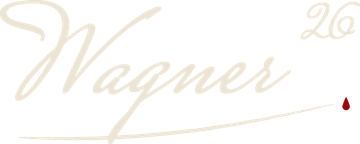
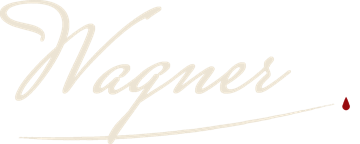
Book landing v2: leather cover, foreword, gold code rain, signatures without year
Claude-Session: https://claude.ai/code/session_01PTi5WCVtytDmMhrS8KDpcf

Changed region(s): [[0.825, 0.0, 1.0, 0.2778], [0.9472, 0.0, 1.0, 0.0556]]

diff --git a/web/book/index.html b/web/book/index.html
@@ -13,13 +13,13 @@
 <link rel="icon" type="image/png" href="/favicon.png">
 <style>html,body{margin:0}img{max-width:100%}[hidden]{display:none!important}:root{padding-top:env(safe-area-inset-top,0px);padding-bottom:env(safe-area-inset-bottom,0px)}</style>
 <style>
-/* Layout: one old book lying open on a dark, faintly gridded night desk; every leaf turns in 3D around the spine. Single committed dark world. */
+/* Layout: one old book lying open in front of a slow golden code rain (canvas); every leaf turns in 3D around the spine. Single committed dark world. */
 :root{
   --night:#0a0c13; --night-2:#141a2b; --grid:rgba(200,155,74,.05);
   --paper:#eadfc4; --paper-2:#dfcfa8; --paper-edge:#b89b68;
   --ink:#2b2018; --ink-soft:#6a5643; --rule:rgba(43,32,24,.28);
   --blood:#8f1016; --blood-hi:#c0222a; --gold:#c9a25a; --ember:#df7a2e;
-  --leather:#24090b; --leather-2:#3d1113;
+  --leather:#3a0810; --leather-2:#6a1220;
   --f-display:"IM Fell English SC","IM Fell English",Georgia,"Times New Roman",serif;
   --f-italic:"IM Fell English",Georgia,serif;
   --f-body:"EB Garamond",Garamond,Georgia,"Times New Roman",serif;
@@ -29,20 +29,18 @@
 }
 html,body{height:100%}
 body{
-  background:
-    radial-gradient(ellipse 60% 55% at 50% 48%, rgba(223,122,46,.13), transparent 70%),
-    linear-gradient(var(--grid) 1px, transparent 1px) 0 0/44px 44px,
-    linear-gradient(90deg,var(--grid) 1px, transparent 1px) 0 0/44px 44px,
-    radial-gradient(ellipse at 50% 0%, var(--night-2), var(--night) 70%);
-  background-color:var(--night);
+  background:#050403;
   color:var(--paper);
   font-family:var(--f-body);
   overflow:hidden;
   display:flex; flex-direction:column;
 }
+#matrix{position:fixed; inset:0; width:100%; height:100%; z-index:0; pointer-events:none; display:block}
+.vignette{position:fixed; inset:0; z-index:0; pointer-events:none; background:radial-gradient(ellipse 55% 60% at 50% 50%, rgba(5,4,3,.82), rgba(5,4,3,.35) 70%, rgba(5,4,3,.1))}
+.banner,.stage,.controls{position:relative; z-index:1}
 .banner{
   flex:none; text-align:center; font:500 12px/1.4 var(--f-mono); letter-spacing:.02em;
-  color:#e8c88f; background:rgba(143,16,22,.22); border-bottom:1px solid rgba(201,162,90,.25);
+  color:#e8c88f; background:#1f0809; border-bottom:1px solid rgba(201,162,90,.25);
   padding-block:8px; padding-left:max(16px,env(safe-area-inset-left,0px)); padding-right:max(16px,env(safe-area-inset-right,0px));
 }
 .banner b{color:var(--gold);letter-spacing:.12em;margin-right:.4em}
@@ -78,9 +76,6 @@ body{
 
 /* paper */
 .paper{background:
-   radial-gradient(circle at 18% 22%, rgba(140,96,40,.10) 0 3%, transparent 4%),
-   radial-gradient(circle at 76% 81%, rgba(140,96,40,.09) 0 2.5%, transparent 3.5%),
-   radial-gradient(circle at 63% 12%, rgba(140,96,40,.07) 0 1.6%, transparent 2.4%),
    radial-gradient(ellipse at 50% 50%, var(--paper) 55%, var(--paper-2) 100%);
   color:var(--ink); box-shadow:inset 0 0 0 1px rgba(120,90,50,.25)}
 .paper.r{border-radius:0 3px 3px 0}
@@ -186,25 +181,24 @@ input[type=email]{font:1em var(--f-body); color:var(--ink); background:rgba(255,
 .plate .cap{text-align:center; padding-block:.6em 7%; font:italic .82em/1.35 var(--f-italic); color:var(--ink-soft)}
 .plate .cap span{display:block; font:.62em var(--f-mono); letter-spacing:.12em; text-transform:uppercase; color:var(--blood); font-style:normal}
 
-/* leather covers */
-.cover{background:
-   radial-gradient(ellipse at 30% 20%, rgba(255,255,255,.06), transparent 50%),
-   repeating-radial-gradient(circle at 70% 60%, rgba(0,0,0,.08) 0 2px, transparent 2px 5px),
-   linear-gradient(135deg,var(--leather-2),var(--leather) 60%,#160506);
-  color:var(--gold)}
-.cover.r{border-radius:2px 8px 8px 2px; box-shadow:inset 6px 0 10px rgba(0,0,0,.5), inset -1px 0 0 rgba(255,255,255,.06)}
-.cover.l{border-radius:8px 2px 2px 8px; box-shadow:inset -6px 0 10px rgba(0,0,0,.5)}
-.tooling{position:absolute; inset:5.5%; border:1px solid rgba(201,162,90,.55); outline:1px solid rgba(201,162,90,.3); outline-offset:5px;
-  display:flex; flex-direction:column; align-items:center; justify-content:center; gap:1.1em; text-align:center; padding:8%}
-.tooling::before,.tooling::after{content:"✦"; position:absolute; left:50%; transform:translateX(-50%); font-size:.8em; color:var(--gold)}
-.tooling::before{top:-.65em} .tooling::after{bottom:-.65em}
-.cover h1{color:#e2c07a; font-size:2.7em; letter-spacing:.02em; text-shadow:0 1px 0 rgba(0,0,0,.6), 0 -1px 0 rgba(255,230,180,.15)}
-.cover .coin{width:58%; aspect-ratio:1; border-radius:50%; box-shadow:0 10px 30px rgba(0,0,0,.65), 0 0 0 1px rgba(201,162,90,.3); filter:saturate(1.05)}
-.cover .sub{font:italic 1.1em var(--f-italic); color:#d7b97d}
-.cover .vol{font:.62em var(--f-mono); letter-spacing:.24em; text-transform:uppercase; color:rgba(201,162,90,.8)}
+/* leather covers: pre-rendered wine-red leather with pressed gold tooling (cover.jpg / back.jpg); live text sits on top */
+.cover{background:#5a0c18; color:var(--gold)}
+.cover .skin{position:absolute; inset:0; width:100%; height:100%; object-fit:fill; display:block; pointer-events:none}
+.cover.r{border-radius:2px 8px 8px 2px; box-shadow:inset 0 0 0 1px rgba(0,0,0,.35)}
+.cover.l{border-radius:8px 2px 2px 8px; box-shadow:inset -6px 0 10px rgba(0,0,0,.55)}
+.cover .front-txt{position:absolute; left:0; right:0; bottom:17%; text-align:center}
+.sr{position:absolute; width:1px; height:1px; overflow:hidden; clip:rect(0 0 0 0); white-space:nowrap}
+.tooling{position:absolute; inset:14% 12%; display:flex; flex-direction:column; align-items:center; justify-content:center; gap:1.1em; text-align:center}
+.gilt{color:#e2c07a; text-shadow:0 -1px 0 rgba(28,0,5,.9), 0 1px 0 rgba(255,196,180,.18)}
+.cover .vol{font:500 .66em var(--f-mono); letter-spacing:.3em; text-transform:uppercase; color:#d8b26a}
+.cover .sub{font:italic 1.1em var(--f-italic); color:#e2c07a}
+.cover .vol{font:.66em var(--f-mono); letter-spacing:.28em; text-transform:uppercase; color:rgba(201,162,90,.8)}
 .cover .open{font:.62em var(--f-mono); letter-spacing:.14em; text-transform:uppercase; color:rgba(226,192,122,.75); animation:pulse 2.4s ease-in-out infinite}
 @keyframes pulse{50%{opacity:.35}}
 .sig{width:46%; opacity:.9}
+.fw .pg-in{gap:.6em} .fw p{font-size:.93em; line-height:1.4; text-align:justify}
+.fw-sig{margin-top:auto; align-self:flex-end; display:flex; flex-direction:column; align-items:center; gap:.1em}
+.sig-ink{width:9em; filter:brightness(0) saturate(100%) invert(12%) sepia(30%) saturate(900%) hue-rotate(320deg); opacity:.85}
 
 .marble{background:
    radial-gradient(ellipse 40% 18% at 20% 30%, rgba(201,162,90,.25), transparent 70%),
@@ -224,7 +218,7 @@ input[type=email]{font:1em var(--f-body); color:var(--ink); background:rgba(255,
 
 .controls{flex:none; display:flex; align-items:center; justify-content:center; gap:14px; padding-block:6px 14px;
   padding-left:max(16px,env(safe-area-inset-left,0px)); padding-right:max(16px,env(safe-area-inset-right,0px))}
-.nav{width:44px; height:44px; border-radius:50%; border:1px solid rgba(201,162,90,.45); background:rgba(20,26,43,.7); color:var(--gold); cursor:pointer; font:20px/1 var(--f-body); display:grid; place-items:center}
+.nav{width:44px; height:44px; border-radius:50%; border:1px solid rgba(201,162,90,.45); background:rgba(12,9,6,.8); color:var(--gold); cursor:pointer; font:20px/1 var(--f-body); display:grid; place-items:center}
 .nav:hover:not(:disabled){background:rgba(143,16,22,.35)}
 .nav:disabled{opacity:.3; cursor:default}
 .where{min-width:0; text-align:center; display:flex; flex-direction:column; gap:3px}
@@ -238,9 +232,10 @@ input[type=email]{font:1em var(--f-body); color:var(--ink); background:rgba(255,
 <link rel="stylesheet" href="/assets/book/fonts.css">
 
 
+<canvas id="matrix" aria-hidden="true"></canvas><div class="vignette" aria-hidden="true"></div>
 <div class="banner" role="note"><b>IN DEVELOPMENT</b>Bloodcoin is still in development. BCUS is not yet available for purchase.</div>
 
-<main class="stage" id="stage" aria-label="Bloodcoin, a book in seven leaves">
+<main class="stage" id="stage" aria-label="Bloodcoin, a book in eight leaves">
   <div class="clip"><div class="book" id="book"><div class="ribbon" aria-hidden="true"></div></div></div>
 </main>
 
@@ -253,13 +248,22 @@ input[type=email]{font:1em var(--f-body); color:var(--ink); background:rgba(255,
 <!-- Pages in reading order. data-kind: cover | marble | plate | paper -->
 <template id="pages">
   <section data-kind="cover" data-label="Bloodcoin" data-id="cover">
-    <div class="tooling">
-      <div class="vol">Vol. I &middot; MMXXVI</div>
-      <h1>Bloodcoin</h1>
-      <img class="coin" src="/assets/book/coin.webp" alt="The Bloodcoin: a black coin with a single red drop">
-      <div class="sub">The chain remembers.</div>
-      <div class="open">Open the book &rsaquo;</div>
-    </div>
+    <img class="skin" src="/assets/book/cover.jpg" alt="">
+    <h1 class="sr">Bloodcoin. Vol. I, MMXXVI. The chain remembers.</h1>
+    <div class="front-txt"><div class="open gilt">Open the book &rsaquo;</div></div>
+  </section>
+
+  <section data-kind="paper" data-label="The Register of Silence" data-id="foreword" class="fw">
+    <div class="eyebrow">Foreword</div>
+    <h2>The Register of Silence</h2>
+    <p class="drop">We have learned to disinfect death out of sight. We have banished it behind the sterile glass of intensive care units, wrapped it in unreadable official reports and made it vanish in the endless data streams of our glossy world. Our age celebrates the eternal: eternal youth, endless economic growth, the immortal algorithm. Yet while we race ahead in a digital frenzy, the most basic truth of our existence is left behind: our own finitude.</p>
+    <p>Bloodcoin is my attempt to give form to what we push away. It is not a promise of future wealth, not a product for the quick speculative market, and not greed that loses itself in artificial frenzies of numbers. It is a living memento mori, engraved into the incorruptible architecture of the blockchain.</p>
+  </section>
+
+  <section data-kind="paper" data-label="The Register of Silence" data-id="foreword-2" class="fw">
+    <p>Every Monday the code looks at the real, unrelenting numbers of life and death. It draws a line. It burns the bare statistics of mortality indelibly into the blocks. What society would rather suppress and smooth over becomes a lasting digital monument here. The coin, BCUS, is no more than the pigment of this performance. It is not born of computing power alone, but of the heartbeat of time itself. Whoever holds it, stakes it or follows its path becomes not merely a player in a financial logic, but a witness to an uncomfortable truth.</p>
+    <p>I did not create this system to serve the market, but to disturb it. In a world that tokenizes everything and makes everything tradable, Bloodcoin makes the inevitable visible: the chain does not forget. And the rhythm of transience beats on, block by block.</p>
+    <div class="fw-sig"><img class="sig-ink" src="/assets/book/signature.png" alt="Signature: Wagner"><span class="small">Michel Wagner</span></div>
   </section>
 
   <section data-kind="paper" data-label="Contents" data-id="contents">
@@ -267,14 +271,15 @@ input[type=email]{font:1em var(--f-body); color:var(--ink); background:rgba(255,
     <h2>Memento mori, written in blocks.</h2>
     <div class="orn"><svg viewBox="0 0 10 14" aria-hidden="true"><path d="M5 0C5 0 0 6.5 0 9a5 5 0 0 0 10 0C10 6.5 5 0 5 0z" fill="currentColor"/></svg></div>
     <ol class="toc">
-      <li><button data-go="title"><span class="t">The chain remembers</span><span class="dots"></span><span class="n">II</span></button></li>
-      <li><button data-go="idea"><span class="t">I. The idea</span><span class="dots"></span><span class="n">III</span></button></li>
-      <li><button data-go="how"><span class="t">II. How it works</span><span class="dots"></span><span class="n">IV</span></button></li>
-      <li><button data-go="register"><span class="t">III. The register</span><span class="dots"></span><span class="n">V</span></button></li>
-      <li><button data-go="witness"><span class="t">IV. Witness it</span><span class="dots"></span><span class="n">VI</span></button></li>
-      <li><button data-go="trace"><span class="t">V. The trace</span><span class="dots"></span><span class="n">VII</span></button></li>
-      <li><button data-go="letters"><span class="t">VI. Letters</span><span class="dots"></span><span class="n">VIII</span></button></li>
-      <li><button data-go="colophon"><span class="t">Colophon</span><span class="dots"></span><span class="n">IX</span></button></li>
+      <li><button data-go="foreword"><span class="t">The Register of Silence</span><span class="dots"></span><span class="n">I</span></button></li>
+      <li><button data-go="title"><span class="t">The chain remembers</span><span class="dots"></span><span class="n">IV</span></button></li>
+      <li><button data-go="idea"><span class="t">I. The idea</span><span class="dots"></span><span class="n">V</span></button></li>
+      <li><button data-go="how"><span class="t">II. How it works</span><span class="dots"></span><span class="n">VI</span></button></li>
+      <li><button data-go="register"><span class="t">III. The register</span><span class="dots"></span><span class="n">VII</span></button></li>
+      <li><button data-go="witness"><span class="t">IV. Witness it</span><span class="dots"></span><span class="n">VIII</span></button></li>
+      <li><button data-go="trace"><span class="t">V. The trace</span><span class="dots"></span><span class="n">IX</span></button></li>
+      <li><button data-go="letters"><span class="t">VI. Letters</span><span class="dots"></span><span class="n">X</span></button></li>
+      <li><button data-go="colophon"><span class="t">Colophon</span><span class="dots"></span><span class="n">XI</span></button></li>
     </ol>
     <div class="exlibris">
       <span class="mono">EX LIBRIS</span>
@@ -382,15 +387,49 @@ input[type=email]{font:1em var(--f-body); color:var(--ink); background:rgba(255,
   </section>
 
   <section data-kind="cover" data-label="The end" data-id="end">
+    <img class="skin" src="/assets/book/back.jpg" alt="">
     <div class="tooling">
-      <div class="vol">Finis</div>
-      <div class="sub">Every week, death leaves a mark.<br>From now on, it leaves one on the chain.</div>
-      <img class="sig" src="/assets/book/signature.png" alt="Signature: Wagner 26">
-      <div class="vol">bloodcoin-us.com</div>
+      <div class="vol gilt">Finis</div>
+      <div class="sub gilt">Every week, death leaves a mark.<br>From now on, it leaves one on the chain.</div>
+      <img class="sig" src="/assets/book/signature.png" alt="Signature: Wagner">
+      <div class="vol gilt">bloodcoin-us.com</div>
     </div>
   </section>
 </template>
 
+<script>
+// Golden code rain behind the book: slow, dim, paused when hidden, a still frame with reduced motion.
+(() => {
+  const c = document.getElementById('matrix'), x = c.getContext('2d');
+  const chars = '0123456789ABCDEF\u2020\u2021BLD\u25C6\u00A7\u2234';
+  const still = matchMedia('(prefers-reduced-motion: reduce)').matches;
+  let w, h, fs, cols, drops, last = 0;
+  function size() {
+    const r = Math.min(devicePixelRatio || 1, 2);
+    w = innerWidth; h = innerHeight; c.width = w * r; c.height = h * r; x.setTransform(r, 0, 0, r, 0, 0);
+    fs = w < 600 ? 13 : 16; cols = Math.ceil(w / fs);
+    drops = Array.from({ length: cols }, () => ({ y: Math.random() * -h / fs, v: .25 + Math.random() * .55 }));
+    x.fillStyle = '#050403'; x.fillRect(0, 0, w, h);
+    if (still) for (let i = 0; i < 40; i++) frame(true);
+  }
+  function frame(force) {
+    x.fillStyle = 'rgba(5,4,3,.09)'; x.fillRect(0, 0, w, h);
+    x.font = fs + 'px "JetBrains Mono", monospace';
+    for (let i = 0; i < cols; i++) {
+      const d = drops[i], ch = chars[Math.random() * chars.length | 0], py = d.y * fs;
+      x.fillStyle = Math.random() < .04 ? '#c0222a' : 'rgba(255,226,150,.85)';
+      x.fillText(ch, i * fs, py);
+      x.fillStyle = 'rgba(201,162,90,.35)';
+      x.fillText(chars[Math.random() * chars.length | 0], i * fs, py - fs);
+      d.y += d.v;
+      if (py > h && Math.random() > .975) { d.y = -Math.random() * 20; d.v = .25 + Math.random() * .55; }
+    }
+  }
+  function loop(t) { if (t - last > 50) { frame(); last = t; } requestAnimationFrame(loop); }
+  size(); addEventListener('resize', size);
+  if (!still) requestAnimationFrame(loop);
+})();
+</script>
 <script>
 (() => {
   // The register reads the same signed reports as the check page (/oracle).
